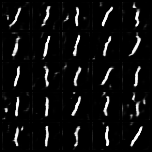
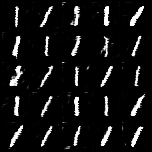
Added Gausian noise to attacker

diff --git a/federated-learning/federated_learning/server_app.py b/federated-learning/federated_learning/server_app.py
@@ -120,7 +120,7 @@ def get_evaluate_fn(model):
     full_dataset = datasets.MNIST(root="./data", download=False, transform=transform)
     
     # Use the last 1000 images for evaluation
-    eval_dataset = Subset(full_dataset, range(len(full_dataset) - 1000, len(full_dataset)))
+    eval_dataset = Subset(full_dataset, range(len(full_dataset) - 2000, len(full_dataset)))
     eval_loader = DataLoader(eval_dataset, batch_size=32, shuffle=True)
 
     # Define the evaluation function
@@ -135,7 +135,7 @@ def get_evaluate_fn(model):
 
         device = torch.device("cuda:0" if torch.cuda.is_available() else "cpu")
         model.to(device)
-
+        
         # Evaluate the model
         total_loss = 0.0
         correct = 0
@@ -163,7 +163,7 @@ def get_evaluate_fn(model):
         # Call plot_accuracy every 5 rounds
         if server_round % 5 == 0:
             plot_accuracy(history)
-            display_predictions(model, eval_loader, 9, device)
+            display_predictions(model, eval_loader, 1, device)
 
         return avg_loss, {"accuracy": accuracy}
 

diff --git a/federated-learning/federated_learning/gan_model.py b/federated-learning/federated_learning/gan_model.py
@@ -266,7 +266,7 @@ def inject_poison_into_dataloader(clean_dataloader, generator, latent_dim, devic
 
     # Bước 2: Tạo dữ liệu poisoned
     poisoned_data = generate_poisoned_data(generator, num_samples=num_poisoned_samples, latent_dim=latent_dim, noise_factor=noise_factor)
-    poisoned_labels = torch.full((poisoned_data.size(0),), 0).to(device)  # Đánh dấu là số 1 bị poisoned
+    poisoned_labels = torch.full((poisoned_data.size(0),), 7).to(device)  # Đánh dấu là số 1 bị poisoned
 
     # Bước 3: Lấy dữ liệu sạch từ clean_dataloader
     clean_images = []
